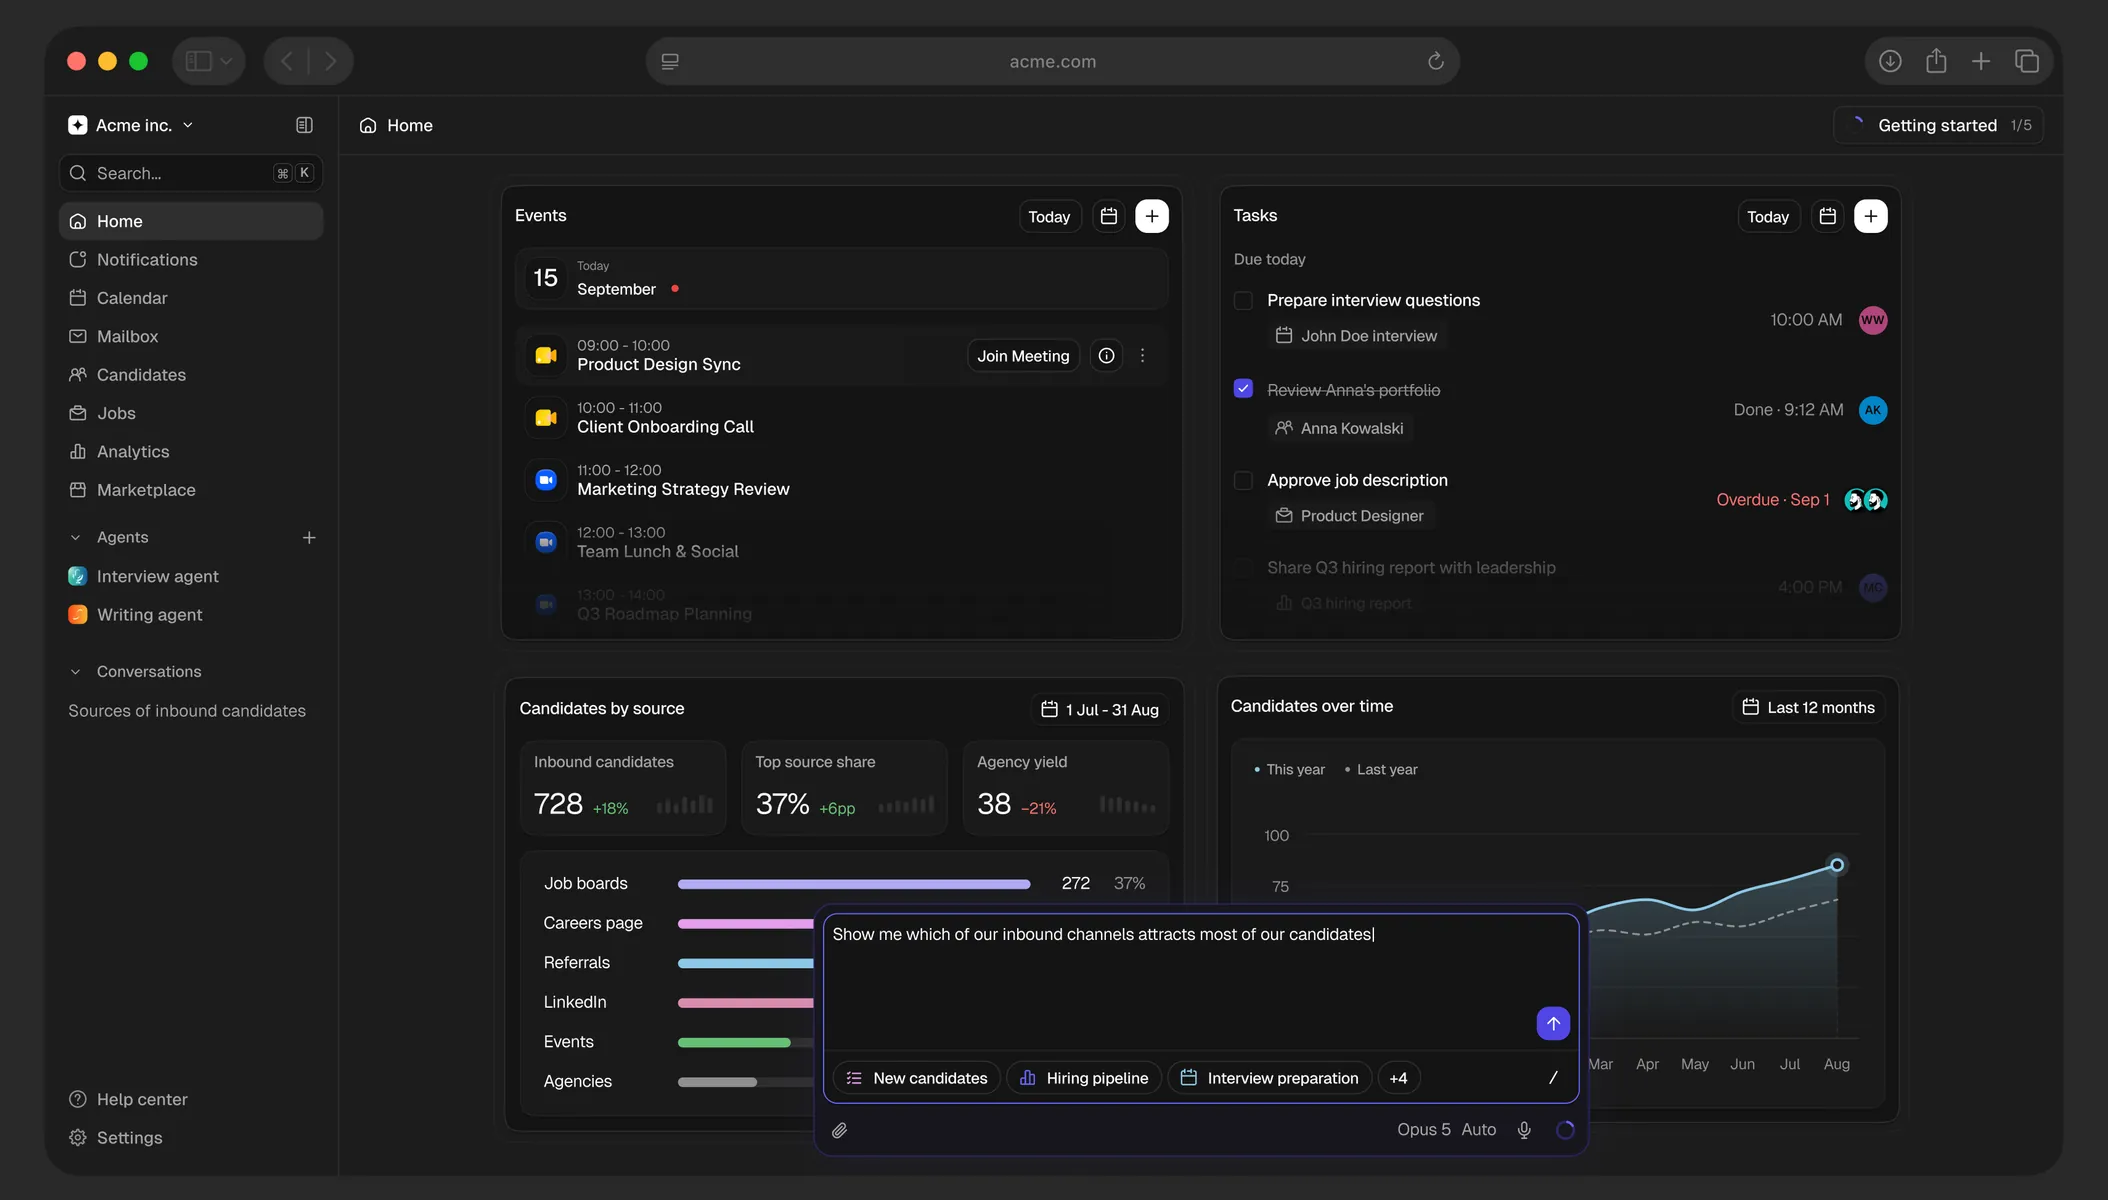
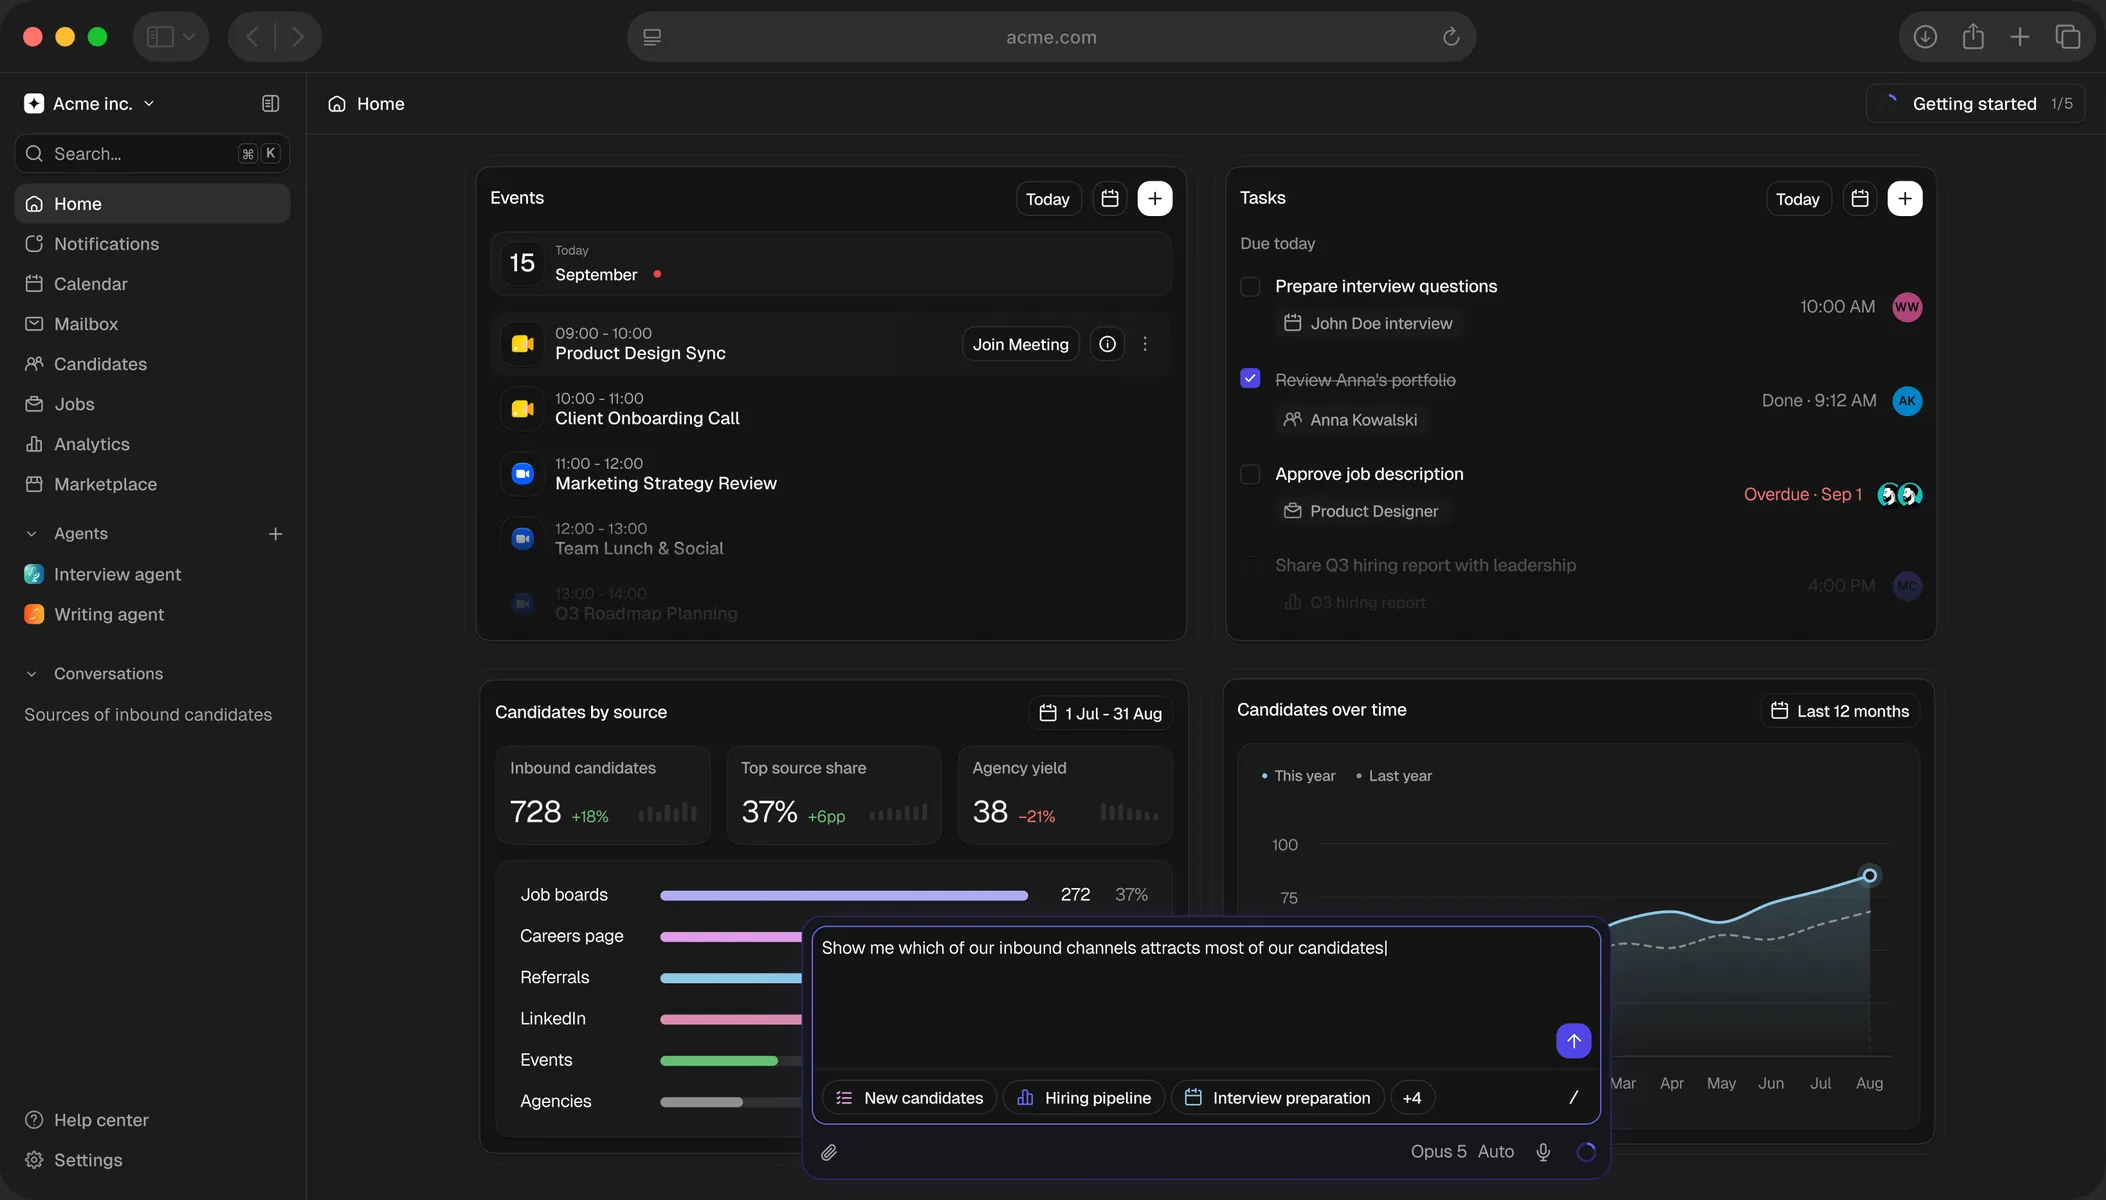
Crop the plated screenshots to the window
Three frames present their screenshot on a plate: a browser window in the
middle of a flat field, with a margin all round and a corner radius of its
own. Inside a card that already rounds at 24px that reads as a picture
floating in a frame — one rounded rectangle inside another — and on the
light frame it is impossible to miss.

Those three are now cropped to the window, so the browser chrome runs to
the card's edge the way the eight design shots do. The crop stops at the
window's box rather than going in by its radius: the arc is drawn in the
chrome, and the card's own 24px corner is the wider of the two, so it takes
the leftover wedge of plate with it.

The other two keep their field. In those the dark surround is the
composition — the dialog and the prompt are lit objects standing in it, not
screenshots mounted on card — and neither draws a second corner.

diff --git a/src/data/v2.ts b/src/data/v2.ts
@@ -247,8 +247,8 @@ export const v2: SiteContent = {
       body: "We designed Tellent's video interview experience end to end — from screen recording setup to review and collaborative feedback — helping hiring teams evaluate candidates without scheduling a live call.",
     },
     images: [
-      { src: "/assets/img/work/showcase-01.webp", alt: "Hiring workspace home with events, tasks, candidate sources and the assistant prompt", width: 1054, height: 600 },
-      { src: "/assets/img/work/showcase-02.webp", alt: "Interview scenario document with the agent chat panel alongside", width: 1054, height: 600 },
+      { src: "/assets/img/work/showcase-01.webp", alt: "Hiring workspace home with events, tasks, candidate sources and the assistant prompt", width: 1053, height: 600 },
+      { src: "/assets/img/work/showcase-02.webp", alt: "Interview scenario document with the agent chat panel alongside", width: 1053, height: 600 },
       { src: "/assets/img/work/showcase-03.webp", alt: "Light-mode home with the assistant prompt over the recent conversations list", width: 1054, height: 600 },
       { src: "/assets/img/work/showcase-04.webp", alt: "Invite people to your session dialog with access levels per person", width: 600, height: 600 },
       { src: "/assets/img/work/showcase-05.webp", alt: "Prompt field with the skills dropdown open by category", width: 946, height: 600 },

diff --git a/src/data/v1.ts b/src/data/v1.ts
@@ -241,8 +241,8 @@ export const v1: SiteContent = {
     title: "Our design work",
     hint: "Click or swipe right",
     images: [
-      { src: "/assets/img/work/showcase-01.webp", alt: "Hiring workspace home with events, tasks, candidate sources and the assistant prompt", width: 1054, height: 600 },
-      { src: "/assets/img/work/showcase-02.webp", alt: "Interview scenario document with the agent chat panel alongside", width: 1054, height: 600 },
+      { src: "/assets/img/work/showcase-01.webp", alt: "Hiring workspace home with events, tasks, candidate sources and the assistant prompt", width: 1053, height: 600 },
+      { src: "/assets/img/work/showcase-02.webp", alt: "Interview scenario document with the agent chat panel alongside", width: 1053, height: 600 },
       { src: "/assets/img/work/showcase-03.webp", alt: "Light-mode home with the assistant prompt over the recent conversations list", width: 1054, height: 600 },
       { src: "/assets/img/work/showcase-04.webp", alt: "Invite people to your session dialog with access levels per person", width: 600, height: 600 },
       { src: "/assets/img/work/showcase-05.webp", alt: "Prompt field with the skills dropdown open by category", width: 946, height: 600 },
